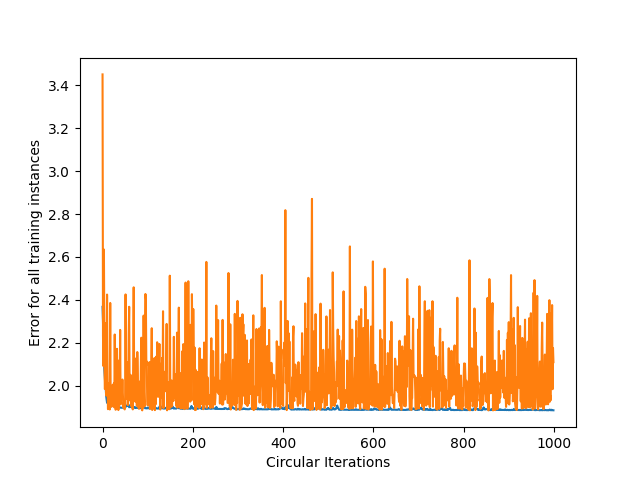
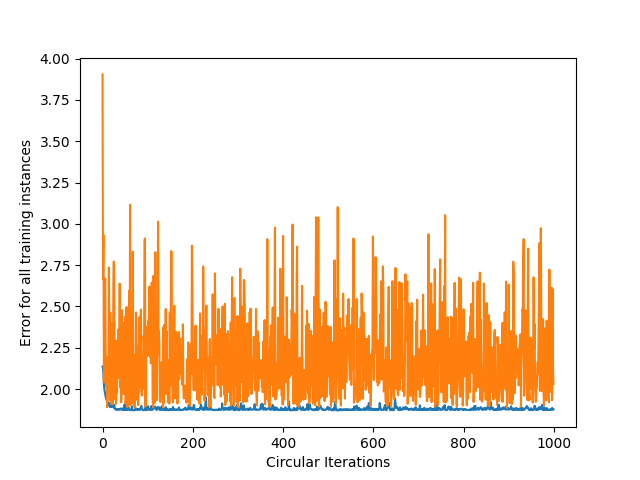
fix to sigmoid

diff --git a/recursively_circular_ai_code.py b/recursively_circular_ai_code.py
@@ -9,11 +9,19 @@ class CircularNeuralNetwork:
         self.learning_rate = learning_rate
 
     def _sigmoid(self, x):
-        return 1 / (1 + np.exp(-x))
+        return 1 / (math.sqrt(1+np.exp(-x)**2))
 
     def _sigmoid_deriv(self, x):
         return math.sqrt(100+(self._sigmoid(x) * (1 - self._sigmoid(x)))**2)-math.sqrt(100)
         #return self._sigmoid(x) * (1 - self._sigmoid(x))
+
+    def _sigmoid2(self, x):
+        return 1 / (1 + np.exp(-x+2))
+
+    def _sigmoid2_deriv(self, x):
+        return math.sqrt(100+(self._sigmoid2(x) * (1 - self._sigmoid2(x)))**2)-math.sqrt(100)
+        #return self._sigmoid(x) * (1 - self._sigmoid(x))
+
 
     def predict(self, input_vector):
         layer_1 = np.dot(input_vector, self.weights) + self.bias
@@ -77,6 +85,93 @@ class CircularNeuralNetwork:
                 cumulative_errors.append(cumulative_error)
 
         return cumulative_errors
+
+
+class CircularNeuralNetwork2:
+    def __init__(self, learning_rate):
+        self.weights = np.array([np.random.randn(), np.random.randn()])
+        self.bias = np.random.randn()
+        self.learning_rate = learning_rate
+
+    def _sigmoid(self, x):
+        return 1 / (1 + np.exp(-x))
+
+    def _sigmoid_deriv(self, x):
+        return math.sqrt(100+(self._sigmoid(x) * (1 - self._sigmoid(x)))**2)-math.sqrt(100)
+        #return self._sigmoid(x) * (1 - self._sigmoid(x))
+
+    def _sigmoid2(self, x):
+        return 1 / (1 + np.exp(-x+2))
+
+    def _sigmoid2_deriv(self, x):
+        return math.sqrt(100+(self._sigmoid2(x) * (1 - self._sigmoid2(x)))**2)-math.sqrt(100)
+        #return self._sigmoid(x) * (1 - self._sigmoid(x))
+
+
+    def predict(self, input_vector):
+        layer_1 = np.dot(input_vector, self.weights) + self.bias
+        layer_2 = self._sigmoid(layer_1)
+        prediction = layer_2
+        return prediction
+
+    def _compute_gradients(self, input_vector, target):
+        layer_1 = np.dot(input_vector, self.weights) + self.bias
+        layer_2 = self._sigmoid(layer_1)
+        prediction = layer_2
+
+        derror_dprediction = 2 * (prediction - target)
+        dprediction_dlayer1 = self._sigmoid_deriv(layer_1)
+        dlayer1_dbias = 1
+        dlayer1_dweights = (0 * self.weights) + (1 * input_vector)
+
+        derror_dbias = (
+            derror_dprediction * dprediction_dlayer1 * dlayer1_dbias
+        )
+        derror_dweights = (
+            derror_dprediction * dprediction_dlayer1 * dlayer1_dweights
+        )
+
+        return derror_dbias, derror_dweights
+
+    def _update_parameters(self, derror_dbias, derror_dweights):
+        self.bias = self.bias - (derror_dbias * self.learning_rate)
+        self.weights = self.weights - (
+            derror_dweights * self.learning_rate
+        )
+
+    def train(self, input_vectors, targets, iterations):
+        cumulative_errors = []
+        for current_iteration in range(iterations):
+            # Pick a data instance at random
+
+            random_data_index = np.random.randint(len(input_vectors))
+
+            input_vector = input_vectors[random_data_index]
+            target = targets[random_data_index]
+
+            # Compute the gradients and update the weights
+            derror_dbias, derror_dweights = self._compute_gradients(
+                input_vector, target
+            )
+
+            self._update_parameters(derror_dbias, derror_dweights)
+
+            # Measure the cumulative error for all the instances
+            if current_iteration % 100 == 0:
+                cumulative_error = 0
+                # Loop through all the instances to measure the error
+                for data_instance_index in range(len(input_vectors)):
+                    data_point = input_vectors[data_instance_index]
+                    target = targets[data_instance_index]
+
+                    prediction = self.predict(data_point)
+                    error = np.square(prediction - target)
+
+                    cumulative_error = cumulative_error + error
+                cumulative_errors.append(cumulative_error)
+
+        return cumulative_errors
+
 
 class NeuralNetwork:
     def __init__(self, learning_rate):
@@ -158,7 +253,7 @@ input_vectors = np.array( [ [3, 1.5],[2, 1],[4, 1.5],[3, 4],[3.5, 0.5],[2, 0.5],
 targets = np.array([0, 1, 0, 1 ,0 ,1, 1 ,0])
 
 
-learning_rate = 0.1
+learning_rate = 0.2
 neural_network = CircularNeuralNetwork(learning_rate)
 
 training_error = neural_network.train(input_vectors, targets, 100000)
